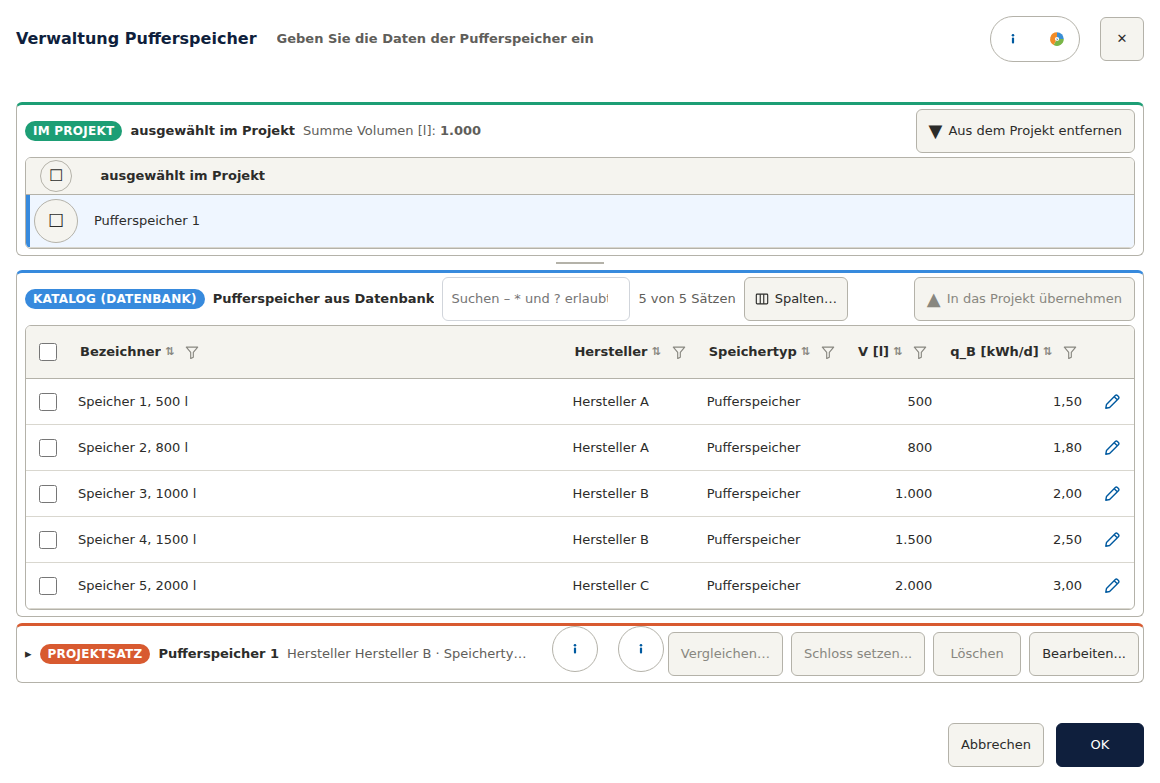
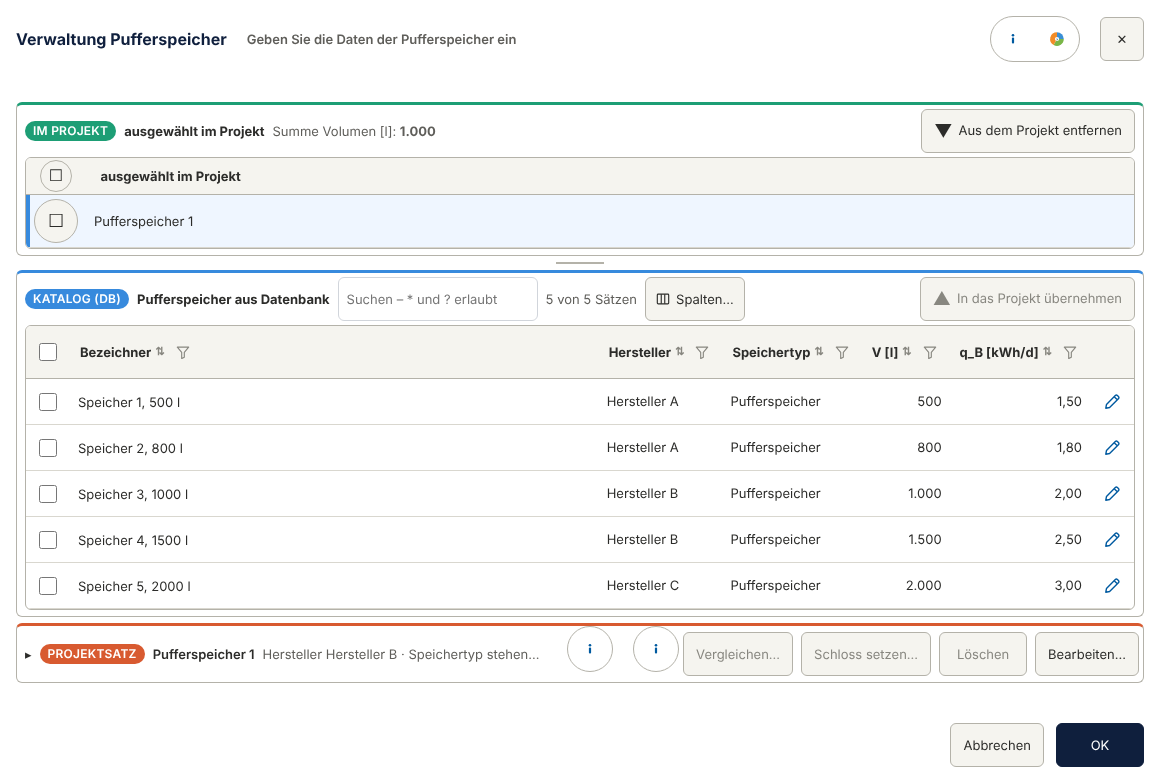
WK3: Wiki-Bilder Katalogauswahl, Bedarf und Klimadaten neu gezogen
14 Bilder mit wikibilder.mjs neu aufgenommen, Maße unverändert (Brauchwasser 1 px niedriger); Punkt im Übergabepapier erledigt.

Claude-Session: https://claude.ai/code/session_01Lm7XLG56m7xusynjJNFFNL

diff --git a/Dokumentation/aktuell/Dialoge/2026-10-14_Uebergabe_Dialoge_Anlagendialog_Kaeltebedarf.md b/Dokumentation/aktuell/Dialoge/2026-10-14_Uebergabe_Dialoge_Anlagendialog_Kaeltebedarf.md
@@ -61,7 +61,7 @@ Die Regeln der Sitzung über `CLAUDE.md` hinaus stehen im Einstiegs-Prompt (Absc
 6. KBP‑3b: Kältegrafik — Monatswerte und Wochenprofil erst nach Speichern, Woche als Reihen statt Hintergrund (Rest gegen #1108 prüfen).
 7. Kern-Test Betriebskalender mit mehr als vier Ferienzeiträumen, sobald die Testdatenbank eine Ferienliste führt.
 8. Gemessene Kälte-Lastgänge für Richtwerte der Vorlagen (beim Anwender).
-9. Wiki-Bilder neu ziehen (offen).
+9. Wiki-Bilder neu ziehen (erledigt mit WK3, siehe Teil 3).
 10. Sichtabnahme Windows Dialoge #1034–#1042 und Kostenmasken KB‑4 (beim Anwender).
 11. Setup-Skript der Cloud-Umgebung (beim Anwender).
 12. Kältevorlage 8: Anwenderentscheid 17.10.: Norm 230 Nutzungstage; Umsetzung in Welle KV8.
